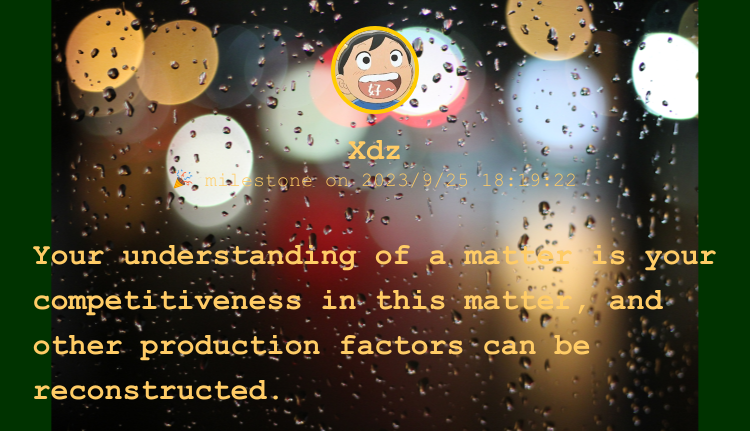
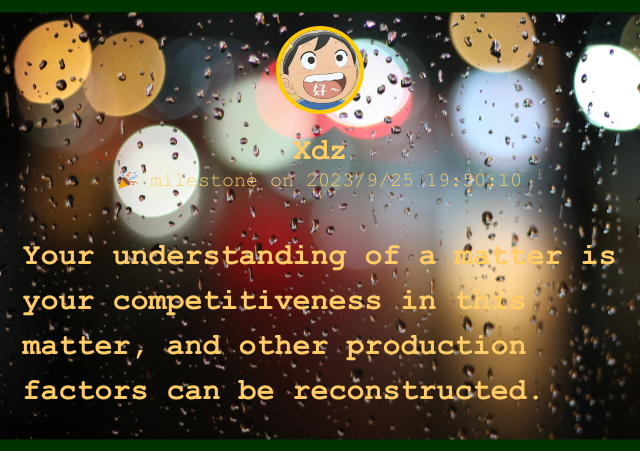
feat(from): accomplish draw from

diff --git a/src/draw.js b/src/draw.js
@@ -20,7 +20,8 @@ class Drawer {
       textAlign,
       fontSizeIndex,
       header,
-      footer
+      footer,
+      from
     } = anyPhotoConfig.canvasSetting
     this.anyPhotoConfig = anyPhotoConfig
     this.width = width
@@ -43,6 +44,7 @@ class Drawer {
     this.ctx = this.canvas.getContext('2d')
     this.lineWidthMap = new Map()
     this.totalLineNumber = this.calculateContentTotalLine()
+    this.compareHeight = 0
     const maxLineWidth = this.getMaxLineWidth()
     this.x = this.lineWidthMap.size > 1 ? this.setSuitableXWidth(maxLineWidth, this.width, x) : x
 
@@ -51,15 +53,22 @@ class Drawer {
     this.author = this.anyPhotoConfig.author
     this.headerHeight = 0
 
+    // from
+    this.from = from
     // footer
     this.footer = footer
   }
   async setupCpu() {
+    const { from = {}, ctx } = this
+    const { showFrom, fromFontSize, fromMarginTop } = from
     this.barWatcher.start(5, 1, { step: '初始化中' })
-    const compareHeight = this.fontSize >= this.lineGap ? this.lineGap / 2 : this.fontSize / 2
+    this.compareHeight = this.fontSize >= this.lineGap ? this.lineGap / 2 : this.fontSize / 2
     this.contentHeight =
-      (this.totalLineNumber - 1) * this.lineGap + this.totalLineNumber * this.fontSize + this.y * 2 + compareHeight
-    this.ctx.save()
+      (this.totalLineNumber - 1) * this.lineGap + this.totalLineNumber * this.fontSize + this.y * 2 + this.compareHeight
+    if (showFrom) {
+      this.contentHeight = this.contentHeight + fromFontSize + fromMarginTop
+    }
+    ctx.save()
     this.cpu = new Cpu({
       canvasHeaderSetting: this.header,
       x: this.x,
@@ -71,6 +80,21 @@ class Drawer {
     this.height = this.headerHeight + this.contentHeight
     this.canvas = createCanvas(this.width, this.height)
     this.ctx = this.canvas.getContext('2d')
+    return this
+  }
+  async setupFrom() {
+    const { y, ctx, x, from = {} } = this
+    const { showFrom, name, fromFontSize, fromFontColor, fromFontWeight, frmFontSizeIndex } = from
+    if (showFrom) {
+      ctx.save()
+      ctx.fillStyle = fromFontColor
+      ctx.font = `${fromFontWeight} ${fromFontSize}px ${this.englishFonts[frmFontSizeIndex]}`
+      ctx.textBaseline = this.textBaseline
+      ctx.textAlign = this.textAlign
+      console.log(name)
+      ctx.fillText(name, x, this.headerHeight + this.contentHeight - fromFontWeight - y - this.compareHeight)
+      ctx.restore()
+    }
     return this
   }
   async setupCanvas() {
@@ -468,8 +492,9 @@ const draw = ({ content, anyPhotoConfig }) => {
     .then(drawer => drawer.drawAvatar())
     .then(drawer => drawer.drawAuthor())
     .then(drawer => drawer.drawTime())
-    .then(drawer => drawer.drawDivider())
     .then(drawer => drawer.drawing())
+    .then(drawer => drawer.setupFrom())
+    .then(drawer => drawer.drawDivider())
     .then(drawer => drawer.generatePng())
 }
 

diff --git a/src/setting.js b/src/setting.js
@@ -55,6 +55,15 @@ const defaultCanvasSetting = {
     //   size: 'contentWidth',
     //   color: '#ffffff'
     // }
+  },
+  from: {
+    showFrom: true,
+    name: '一个人的朝圣',
+    fromFontSize: 20,
+    fromFontColor: '#FFCC66',
+    fromFontWeight: 'medium',
+    frmFontSizeIndex: 4,
+    fromMarginTop: 0
   }
 }
 
